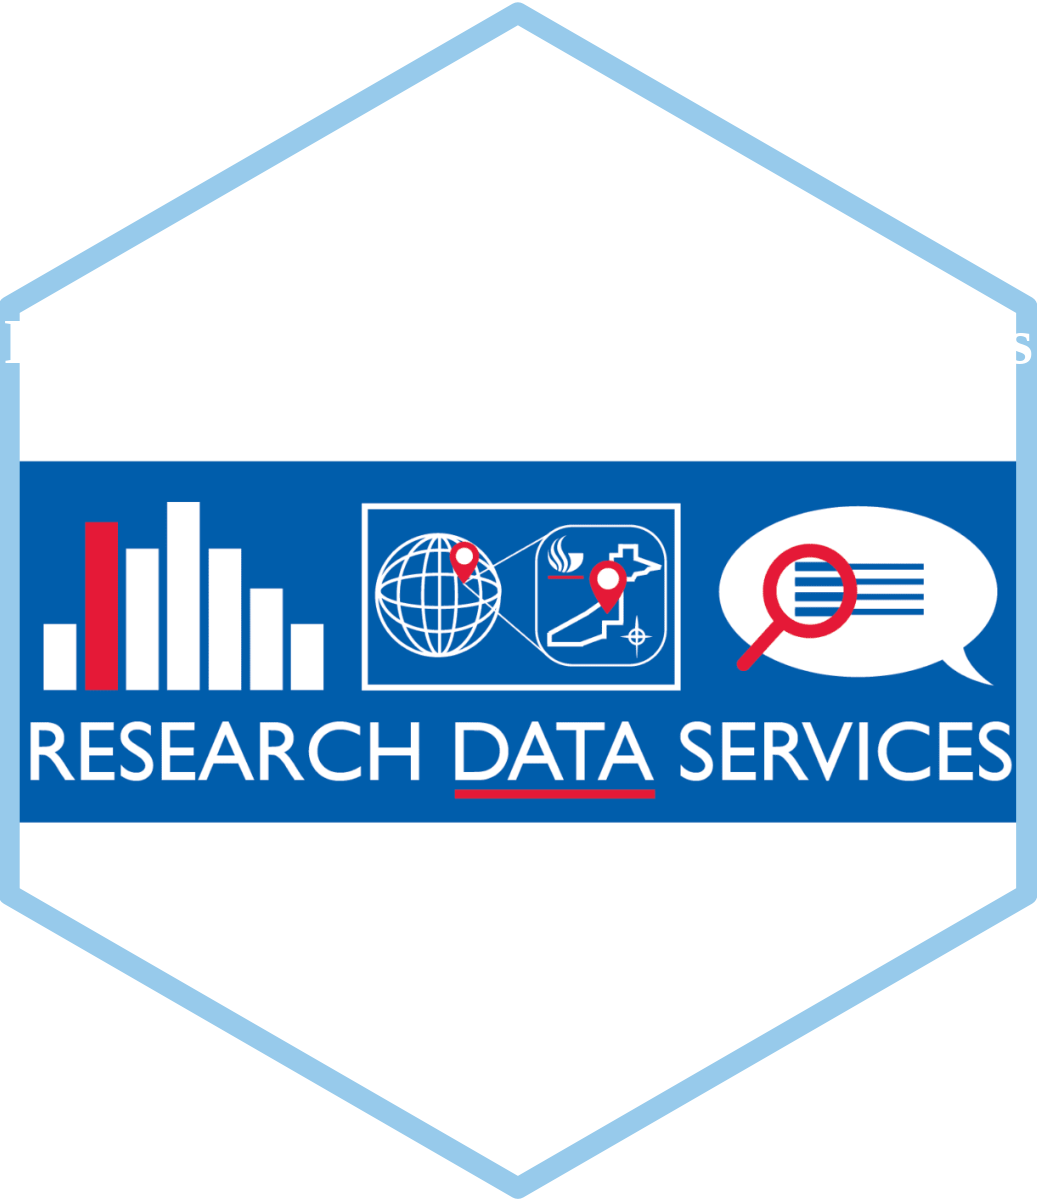
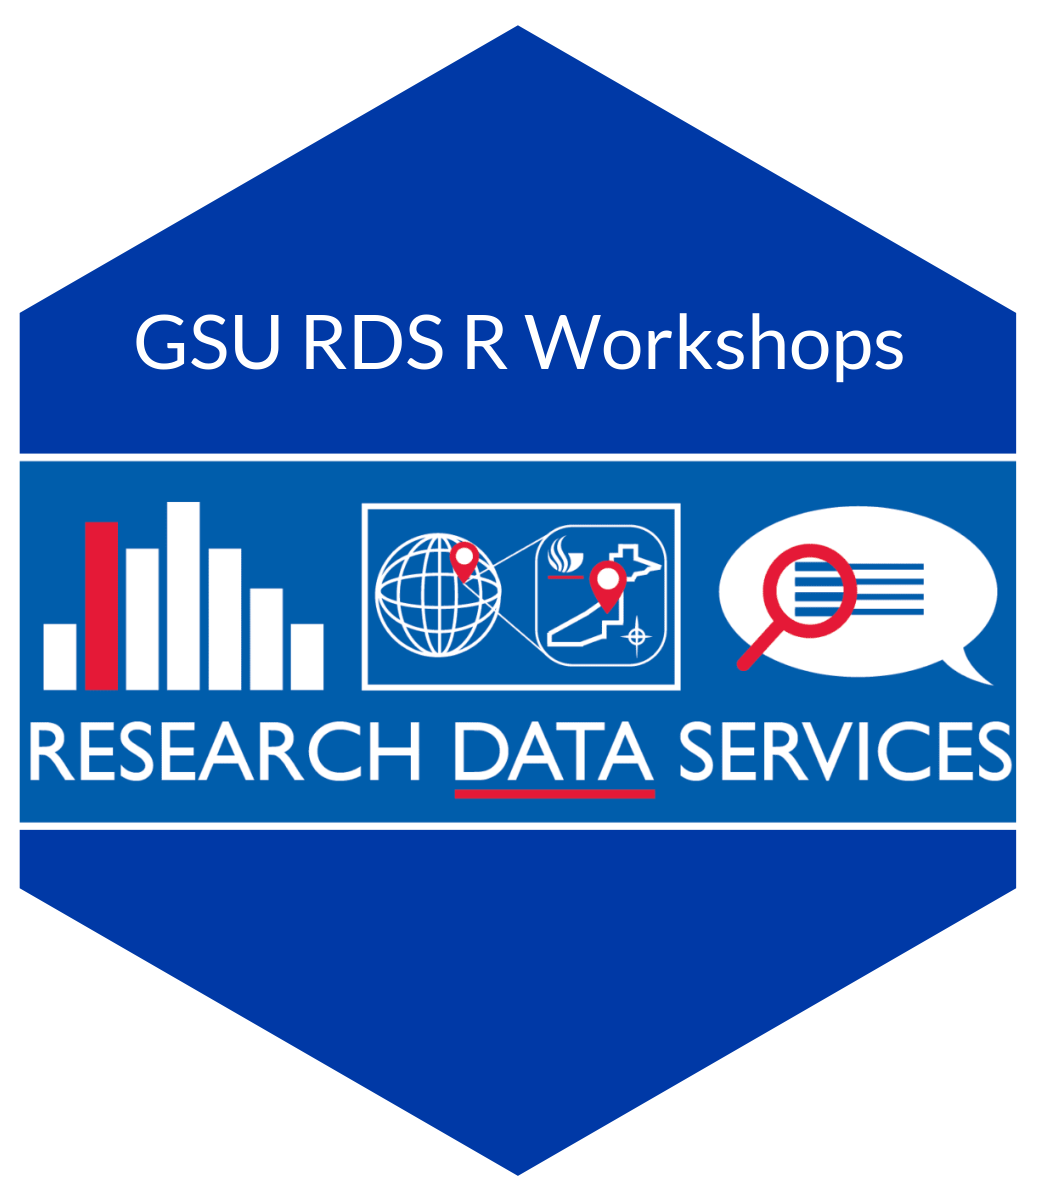
add hex sticker to static media

diff --git a/content/materials/_index.md b/content/materials/_index.md
@@ -13,7 +13,7 @@ The workshop slides are special HTML files made with the R package [**xaringan**
 
 The slides are also embedded on each page. You can click in the slides and navigate through them with <kbd>←</kbd> and <kbd>→</kbd>. If you type <kbd>?</kbd> (or <kbd>shift</kbd> + <kbd>/</kbd>) while viewing the slides you can see a list of slide-specific commands (like <kbd>f</kbd> for fullscreen or <kbd>p</kbd> for presenter mode if you want to see my notes).
 
-Each workshop I will highlight a list of excellent R resources I use and have helped me learn R. I highly encourage you to check them out. I am particularly indebted to the examples and content provided by [Andrew Heiss](https://www.andrewheiss.com/) and [Grant McDermott](https://grantmcdermott.com/).
+Each workshop I will highlight a list of excellent R resources I use and have helped me learn R. I highly encourage you to check them out. I am particularly indebted to the examples and content provided by [Andrew Heiss](https://www.andrewheiss.com/) and [Grant McDermott](https://grantmcdermott.com/) which have been critical not only for the development of this workshop but my own understanding of R.
 
 ## Why R? 
 
